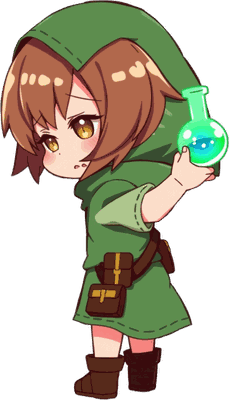
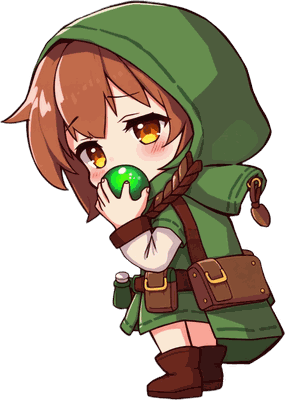
v0.86.0: 「翠緑の薬導士」を v0.59.0 の絵に戻す
v0.85.0 の描き直し(髪を左右に分ける)が不評だったため取り消し。
戻し先は指定により v0.59.0(8e5fe91)。三つ編みが横に垂れて顔が
はっきり見える版で、今の絵よりフードが大きい。

当時の絵は左を向いていた(v0.65.0 で反転して直した経緯がある)ので、
取り出した4枚を左右反転してから置いた。それに合わせて flip から
player:4 を外し、seed も当時の 71004 に戻してある。

引き直しても同じにはならない。頭身の共通指定(player_body /
player_view)が当時と違うため。その旨を subjects_flux.json に
書き添えた ― 作り直す前にこの4枚を退避すること。

両目の幅は 36.0%(6人の平均 36.3%)でほぼ真ん中なので、
表示倍率 1.13 はそのまま。

diff --git a/shared/version.ts b/shared/version.ts
@@ -4,6 +4,6 @@
 // BUILD_DATE は npm run build のたびに tools/stamp-version.mjs が
 // 実際の時刻(日本時間)で書き換えるので、手で触らないこと。
 
-export const VERSION = '0.85.0';
-export const BUILD_DATE = '2026-08-07 17:29';
+export const VERSION = '0.86.0';
+export const BUILD_DATE = '2026-08-07 17:37';
 export const COPYRIGHT = 'Copyright © 2026 YuriPapa';
